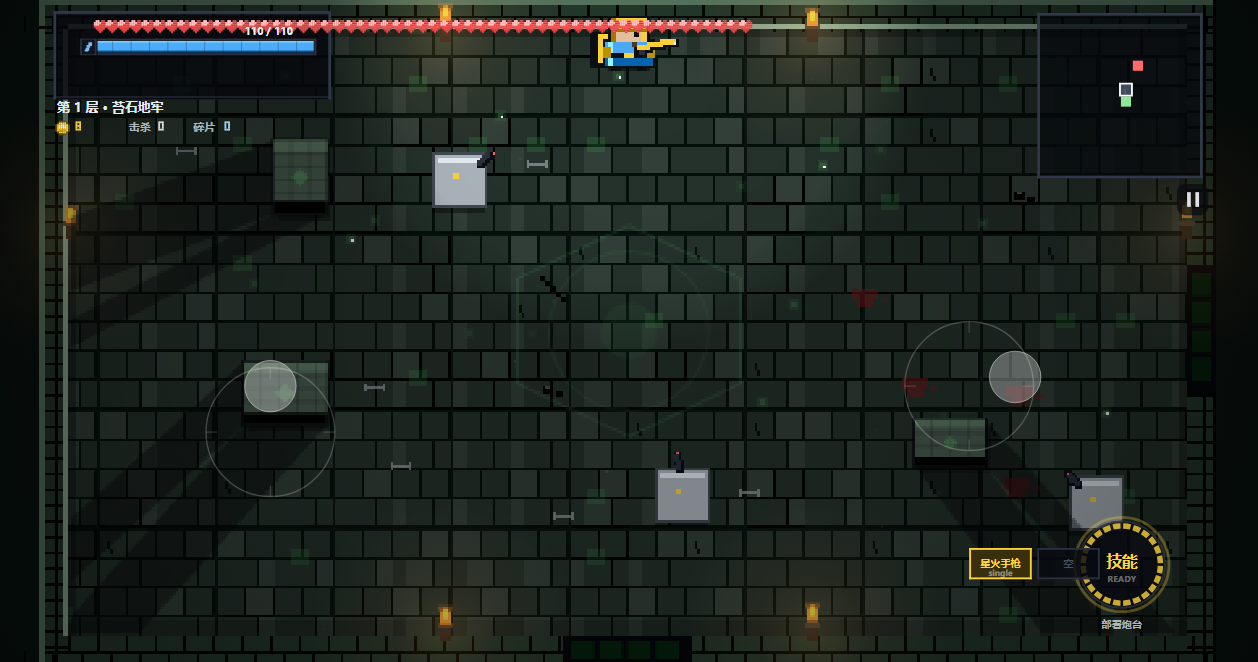
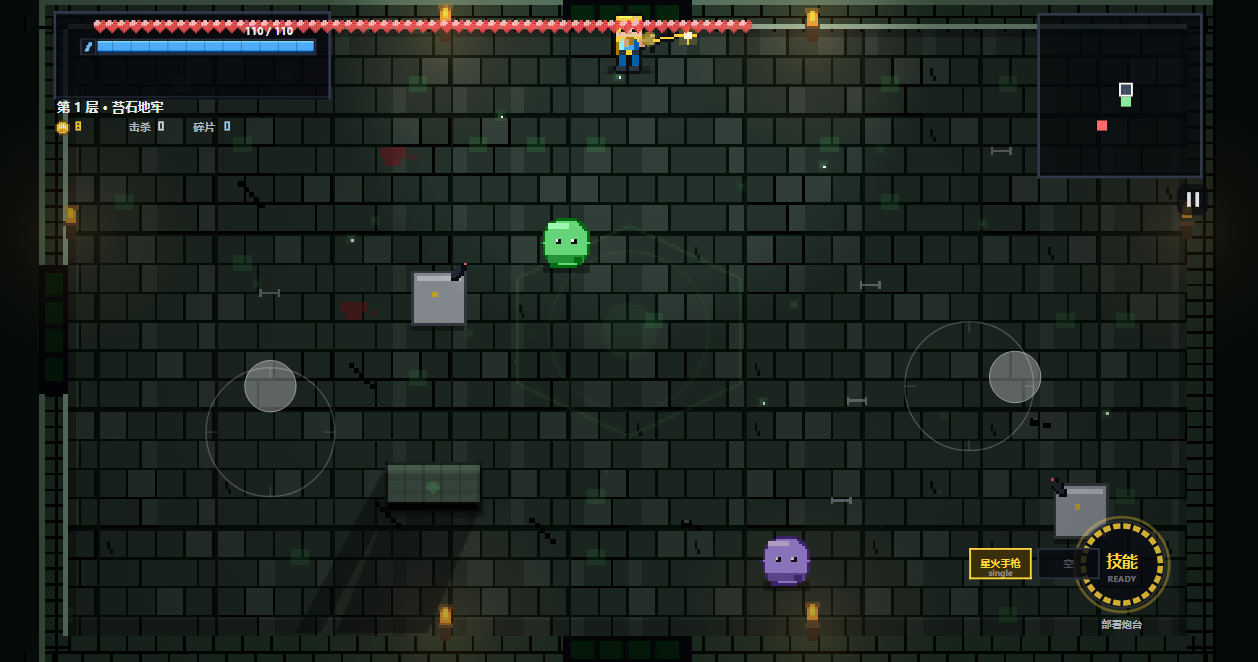
feat: 人物16x22像素精灵+1px描边轮廓、武器1px精修枪械、角色卡立绘放大

diff --git a/index.html b/index.html
@@ -4941,10 +4941,10 @@
     const R = Math.max(7, Math.round(PLAYER_R * K * 1.75));
     const sk = run.skin || 0;
     const body = tint(ch.color, sk), hair = tint(ch.accent, sk);
-    const dark = '#0b0f14';
-    c.fillStyle = 'rgba(0,0,0,.42)';
-    c.fillRect(X - R + 1, Y + R - 1, R * 2 - 2, Math.max(1, Math.round(R * 0.35)));
-    c.fillRect(X - R + 3, Y + R, R * 2 - 6, 1);
+    c.fillStyle = 'rgba(0,0,0,.30)';
+    c.fillRect(X - 8, Y + 9, 16, 3);
+    c.fillStyle = 'rgba(0,0,0,.16)';
+    c.fillRect(X - 10, Y + 11, 20, 1);
     if (run.shield > 0) {
       c.fillStyle = '#74c0fc';
       c.globalAlpha = 0.35 + Math.abs(Math.sin(G.time * 5)) * 0.35;
@@ -4954,148 +4954,189 @@
       c.globalAlpha = 1;
     }
     const blink = run.invuln > 0 && Math.floor(G.time * 20) % 2 === 0;
-    c.globalAlpha = blink ? 0.5 : 1;
+    c.globalAlpha = blink ? 0.45 : 1;
     const fx = Math.cos(p.ang), fy = Math.sin(p.ang);
     const dir = Math.abs(fx) > Math.abs(fy) ? (fx > 0 ? 1 : 3) : (fy > 0 ? 0 : 2);
     const moving = Math.hypot(p.vx || 0, p.vy || 0) > 20;
-    const frame = moving ? (Math.floor(G.time * 8) % 2) : 0;
-    // 披风（朝向反向飘动）
-    const back = dir === 1 ? -1 : dir === 3 ? 1 : 0;
-    const backY = dir === 0 ? -1 : dir === 2 ? 1 : 0;
-    c.fillStyle = dark;
-    c.fillRect(X + back * (R - 1) - Math.round(R * 0.75), Y - Math.round(R * 0.4) + backY * (R - 3), Math.round(R * 1.5), Math.round(R * 1.5));
-    c.fillStyle = hair;
-    c.fillRect(X + back * (R - 2) - Math.round(R * 0.6), Y - Math.round(R * 0.3) + backY * (R - 3), Math.round(R * 1.2), Math.round(R * 1.2));
-    // 头部（窄）+ 躯干（宽），粗描边
-    const hr = Math.max(3, Math.round(R * 0.74));
-    const hd = Math.max(4, Math.round(R * 1.05));
-    const headTop = Y - R;
-    const bodyTop = headTop + hd;
-    c.fillStyle = dark;
-    c.fillRect(X - hr - 1, headTop - 1, hr * 2 + 2, hd + 2);
-    c.fillRect(X - R - 1, bodyTop - 1, R * 2 + 2, Y + R - bodyTop + 2);
-    // 躯干（受击挤压帧 / 开火前倾帧）
+    const step = moving ? (Math.floor(G.time * 9) % 2) : 0;
+    const bob = moving ? step : Math.round(Math.sin(G.time * 2.4) * 1.2);
     const hurtP = run.hurtAt && G.time - run.hurtAt < 0.14;
     const atkP = run.muzzleAt && G.time - run.muzzleAt < 0.12;
-    const bw = hurtP ? R + 1 : R;
-    const bt = hurtP ? bodyTop + 1 : bodyTop;
-    const bb = hurtP ? Y + R - 1 : Y + R;
-    c.fillStyle = body;
-    c.fillRect(X - bw, bt, bw * 2, bb - bt);
-    c.fillStyle = hexShade(body, -0.28);
-    c.fillRect(X - bw, bb - 3, bw * 2, 3);
-    c.fillStyle = hexShade(body, 0.3);
-    c.fillRect(X - bw + 1, bt, 2, bb - bt);
-    if (atkP) {
-      // 持枪手前伸
-      c.fillStyle = dark;
-      c.fillRect(X + Math.round(fx * 3) - 2, Y + Math.round(fy * 3) - 2, 4, 4);
-      c.fillStyle = '#e8c39e';
-      c.fillRect(X + Math.round(fx * 4) - 1, Y + Math.round(fy * 4) - 1, 2, 2);
+    const DARK = '#0b0f14', SKIN = '#f2cba3', SKIN2 = '#d9a97e';
+    const bodyHi = hexShade(body, 0.28), bodyLo = hexShade(body, -0.3);
+    const hairHi = hexShade(hair, 0.22), hairLo = hexShade(hair, -0.34);
+    // 精灵格：16 宽 × 20 高，1 格 ≈ 1 个低分辨率像素
+    const GY = Y - 10 + (hurtP ? 1 : 0) + (bob ? 1 : 0);
+    const backView = dir === 2;
+    // 披风：朝反方向飘，带风摆
+    const capeX = dir === 1 ? -3 : dir === 3 ? 3 : 0;
+    const capeY = dir === 0 ? 2 : dir === 2 ? -2 : 0;
+    const flut = Math.round(Math.sin(G.time * 6) * 1);
+    // 轮廓 pass：同形状偏移 1px 用深色绘制，得到干净的 1px 描边
+    let oc = null, odx = 0, ody = 0;
+    const P = (gx, gy, gw, gh, col) => {
+      c.fillStyle = oc || col;
+      c.fillRect(X + gx + odx, GY + gy + ody, gw, gh);
+    };
+    const drawBody = () => {
+      // 披风（小一号，避免变成黑块）
+      P(-2 + capeX, 9 + capeY, 6, 6, hairLo);
+      P(-1 + capeX + flut, 10 + capeY, 4, 4, hexShade(hair, -0.5));
+      P(-3 - capeX, 12, 3, 2, hairLo);
+      // 腿 / 靴
+      const l1 = step ? 1 : 0, l2 = step ? -1 : 0;
+      P(-4, 15, 3, 4, bodyLo);
+      P(1, 15, 3, 4, bodyLo);
+      P(-5, 19 + l1, 4, 2, '#2b3340');
+      P(0, 19 + l2, 4, 2, '#2b3340');
+      // 躯干
+      P(-4, 7, 8, 8, body);
+      P(-4, 7, 2, 8, bodyHi);
+      P(2, 7, 2, 8, bodyLo);
+      // 肩甲
+      P(-5, 7, 2, 3, hair);
+      P(3, 7, 2, 3, hair);
+      // 围巾 + 尾
+      P(-4, 7, 8, 2, hair);
+      P(-4 - capeX, 8, 3, 3, hairLo);
+      // 腰带 + 扣
+      P(-4, 13, 8, 2, '#2b3340');
+      P(-1, 13, 2, 2, hair);
+      // 手臂（开火时前伸）
+      if (atkP) {
+        P(-4 + Math.round(fx * 2), 9 + Math.round(fy), 2, 3, SKIN2);
+        P(2 + Math.round(fx * 2), 9 + Math.round(fy), 2, 3, SKIN2);
+      } else {
+        P(-5, 9, 2, 4, SKIN);
+        P(3, 9, 2, 4, SKIN);
+      }
+      // 头
+      P(-5, 0, 10, 8, SKIN);
+      if (backView) {
+        P(-5, 0, 10, 7, hair);
+        P(-4, 0, 6, 1, hairHi);
+        P(-4, 4, 8, 3, hairLo);
+        P(-2, 2, 4, 2, hexShade(hair, -0.18));
+      } else {
+        P(-5, 0, 10, 3, hair);
+        P(-5, 0, 2, 6, hair);
+        P(3, 0, 2, 6, hair);
+        P(-4, 0, 5, 1, hairHi);
+        P(-5, 2, 3, 1, hairLo);
+        P(-3, 4, 2, 2, DARK);
+        P(1, 4, 2, 2, DARK);
+        P(-3, 4, 1, 1, '#ffffff');
+        P(1, 4, 1, 1, '#ffffff');
+        P(-4, 6, 1, 1, SKIN2);
+        P(3, 6, 1, 1, SKIN2);
+        P(-1, 6, 2, 1, SKIN2);
+        if (dir === 1) P(2, 0, 1, 3, SKIN);
+        if (dir === 3) P(-3, 0, 1, 3, SKIN);
+      }
+    };
+    oc = DARK;
+    for (let i = 0; i < 4; i++) {
+      odx = i === 0 ? -1 : i === 1 ? 1 : 0;
+      ody = i === 2 ? -1 : i === 3 ? 1 : 0;
+      drawBody();
     }
-    // 头部
-    c.fillStyle = '#e8c39e';
-    c.fillRect(X - hr, headTop, hr * 2, hd);
-    c.fillStyle = hair;
-    if (dir === 2) {
-      // 背面：整头后脑
-      c.fillRect(X - hr, headTop, hr * 2, hd);
-      c.fillStyle = hexShade(hair, -0.2);
-      c.fillRect(X - hr, headTop, hr * 2, 2);
-    } else {
-      c.fillRect(X - hr, headTop, hr * 2, Math.max(3, Math.round(hd * 0.55)));
-      c.fillRect(X - hr, headTop, 2, hd);
-      c.fillRect(X + hr - 2, headTop, 2, hd);
-      c.fillStyle = hexShade(hair, -0.35);
-      c.fillRect(X - hr, headTop + Math.max(3, Math.round(hd * 0.55)) - 1, hr * 2, 1);
-      if (dir === 1) c.fillRect(X - hr, headTop, 2, hd);
-      if (dir === 3) c.fillRect(X + hr - 2, headTop, 2, hd);
-    }
-    // 眼睛（按朝向）
-    const ey = headTop + Math.round(hd * 0.58);
-    c.fillStyle = '#0b0f14';
-    if (dir === 0) {
-      c.fillRect(X - 3, ey, 2, 2);
-      c.fillRect(X + 1, ey, 2, 2);
-      c.fillStyle = '#f8f9fa';
-      c.fillRect(X - 3, ey, 1, 1);
-      c.fillRect(X + 1, ey, 1, 1);
-    } else if (dir === 1) {
-      c.fillRect(X + 2, ey, 2, 2);
-    } else if (dir === 3) {
-      c.fillRect(X - 4, ey, 2, 2);
-    }
-    // 脚（两帧交替）
-    c.fillStyle = '#0b0f14';
-    if (frame === 0 || !moving) {
-      c.fillRect(X - R + 1, Y + R, 4, 2);
-      c.fillRect(X + R - 5, Y + R, 4, 2);
-    } else {
-      c.fillRect(X - R + 2, Y + R, 4, 2);
-      c.fillRect(X + R - 6, Y + R + 1, 4, 1);
-    }
-    // 腰带 / 肩甲 / 手套
-    c.fillStyle = '#0b0f14';
-    c.fillRect(X - R + 1, Y + R - 5, R * 2 - 2, 2);
-    c.fillStyle = hair;
-    c.fillRect(X - 2, Y + R - 5, 4, 2);
-    c.fillStyle = hexShade(hair, -0.25);
-    c.fillRect(X - R - 1, bodyTop + 2, 3, 4);
-    c.fillRect(X + R - 2, bodyTop + 2, 3, 4);
-    // 武器（按弹道族绘制不同剪影）
+    oc = null; odx = 0; ody = 0;
+    drawBody();
+    // 武器：按弹道族绘制 1px 精修剪影（枪管 / 机匣 / 握把 / 弹匣 / 瞄具 / 刀身 / 法球）
     const w = curWeapon();
     const rk = (run.muzzleAt && G.time - run.muzzleAt < 0.1) ? 2 : 0;
     if (w) {
-      c.save();
-      c.translate(-fx * rk, -fy * rk);
       const fam = w.fam;
-      const len = (fam === 'melee' || fam === 'shotgun' || fam === 'launcher') ? R + 5 : R + 8;
-      const put = (t, s, col, sz) => {
-        const qx = X + fx * t - fy * (s + 3), qy = Y + fy * t + fx * (s + 3);
+      const wc = w.color || '#ffd43b';
+      const wHi = hexShade(wc, 0.4), wLo = hexShade(wc, -0.35);
+      const metal = '#414b5e', metalHi = '#939db0';
+      const wood = '#7a5433', woodHi = '#9c7047', woodLo = '#5e4026';
+      const len = fam === 'melee' ? R + 5 : (fam === 'shotgun' || fam === 'launcher') ? R + 3 : R + 6;
+      const GOFF = 4; // 让枪从身体外侧开始，不压住胸口
+      const put = (t, s, col, sw, sh) => {
+        const qx = Math.round(X + fx * (t + GOFF) - fy * s) - (rk ? Math.round(fx) : 0);
+        const qy = Math.round(Y + fy * (t + GOFF) + fx * s) - (rk ? Math.round(fy) : 0);
         c.fillStyle = col;
-        c.fillRect(Math.round(qx) - ((sz / 2) | 0), Math.round(qy) - ((sz / 2) | 0), sz, sz);
+        c.fillRect(qx, qy, sw || 1, sh || 1);
       };
-      for (let t = 2; t <= len; t++) put(t, 0, dark, 3);
+      const strip = (t0, t1, s, col, sz) => { for (let t = t0; t <= t1; t++) put(t, s, col, sz || 1, sz || 1); };
+      const H = 1;
+      const outline = (t0, t1, s) => { strip(t0, t1, s, DARK); };
       if (fam === 'melee') {
-        for (let t = 3; t <= len; t++) put(t, 0, t > len - 2 ? '#f8f9fa' : w.color, 2);
-        put(2, -2, '#8a6b3d', 2);
-        put(2, 2, '#8a6b3d', 2);
+        // 刀身：1px 刃 + 上下描边 + 护手
+        outline(5, len, H - 1); outline(5, len, H + 1);
+        strip(5, len, H, '#cfd8e3');
+        put(len, H, '#ffffff');
+        put(4, H - 2, wood, 1, 5);
+        put(3, H, woodHi, 2, 2);
       } else if (fam === 'shotgun') {
-        for (let t = 3; t <= len; t++) put(t, 0, w.color, 2);
-        put(len, -2, w.color, 2);
-        put(len, 2, w.color, 2);
-        put(3, -2, '#4a3a28', 2);
+        // 双管霰弹：上下两管 + 泵动护木
+        outline(3, len, H - 2); outline(3, len, H + 2);
+        strip(4, len, H - 1, wc);
+        strip(4, len, H + 1, wLo);
+        strip(5, len, H, wHi);
+        put(2, H + 2, wood, 3, 2);
+        put(len + 1, H - 1, '#fff3bf', 2, 2);
       } else if (fam === 'launcher') {
-        for (let t = 3; t <= len; t++) put(t, 0, w.color, 4);
-        put(len + 1, 0, '#0b0f14', 3);
-      } else if (fam === 'summon' || fam === 'flame' || fam === 'charge') {
-        for (let t = 3; t <= len - 1; t++) put(t, 0, '#8a6b3d', 2);
-        put(len, 0, w.color, 3);
-        put(len, 0, '#f8f9fa', 1);
+        // 榴弹：粗管 + 喇叭口
+        outline(3, len, H - 2); outline(3, len, H + 2);
+        strip(4, len, H - 1, wc);
+        strip(4, len, H + 1, wc);
+        put(len + 1, H - 2, DARK, 3, 4);
+        put(len + 2, H - 1, wc, 2, 2);
       } else if (fam === 'laser' || fam === 'rail' || fam === 'chain') {
-        for (let t = 3; t <= len; t++) put(t, 0, w.color, 2);
-        for (let t = 5; t <= len; t++) put(t, 0, '#f8f9fa', 1);
-        put(2, 0, '#2b3040', 3);
+        // 能量武器：金属管 + 发光芯 + 瞄具
+        outline(3, len, H - 1); outline(3, len, H + 1);
+        strip(4, len, H, metal);
+        strip(6, len, H, wc);
+        put(4, H - 2, metalHi, 4, 1);
+        put(len + 1, H, hexA(wc, 0.6), 3, 3);
+      } else if (fam === 'summon' || fam === 'flame' || fam === 'charge') {
+        // 法杖：木杖 + 发光法球
+        strip(3, len, H, wood);
+        strip(4, len, H, woodHi);
+        put(len + 1, H - 1, DARK, 3, 3);
+        put(len + 1, H - 1, wc, 2, 2);
+        put(len + 1, H, '#ffffff');
+      } else if (fam === 'bounce' || fam === 'boomerang') {
+        // 双叉 / 回旋
+        outline(4, len, H - 1); strip(5, len, H - 1, wc);
+        outline(4, len, H + 2); strip(5, len, H + 2, wLo);
+        put(3, H, wood, 2, 2);
       } else {
-        for (let t = 3; t <= len; t++) put(t, 0, w.color, 2);
-        put(len, 0, '#f8f9fa', 1);
-        put(2, -2, '#4a3a28', 2);
-        put(4, 2, '#2b3040', 2);
+        // 步枪：枪托 + 机匣 + 枪管 + 弹匣 + 瞄具
+        put(2, H - 1, wood, 2, 2);
+        put(3, H, DARK, 1, 2);
+        put(4, H - 1, metal, 2, 2);
+        outline(6, len, H - 1);
+        outline(6, len, H + 1);
+        strip(6, len, H, wc);
+        put(5, H + 2, DARK, 2, 3);
+        put(5, H + 1, metal, 2, 1);
+        put(5, H - 2, metalHi, 2, 1);
+        put(len + 1, H, '#fff3bf');
+        put(5, H - 2, metalHi, 2, 1);
+        put(len + 1, H, '#fff3bf');
       }
-      // 枪口火花
+      // 枪口火花：小十字星 + 两层光晕
       if (rk) {
-        const mx = X + fx * (len + 3) - fy * 3, my = Y + fy * (len + 3) + fx * 3;
-        c.fillStyle = 'rgba(255,212,59,.75)';
-        c.fillRect(Math.round(mx) - 2, Math.round(my) - 2, 5, 5);
-        c.fillStyle = '#fff3bf';
-        c.fillRect(Math.round(mx) - 1, Math.round(my) - 1, 3, 3);
+        const mx = Math.round(X + fx * (len + 3 + GOFF) - fy * H);
+        const my = Math.round(Y + fy * (len + 3 + GOFF) + fx * H);
+        c.fillStyle = hexA(wc, 0.20); c.fillRect(mx - 3, my - 3, 7, 7);
+        c.fillStyle = '#ffd43b';
+        c.fillRect(mx - 3, my, 7, 1);
+        c.fillRect(mx, my - 3, 1, 7);
+        c.fillStyle = '#fff8dc'; c.fillRect(mx - 1, my - 1, 3, 3);
+        c.fillStyle = '#ffffff'; c.fillRect(mx, my, 1, 1);
       }
-      c.restore();
     }
-    // 受击闪白
+    // 受击闪白（贴合精灵轮廓）
     if (run.hurtAt && G.time - run.hurtAt < 0.12) {
-      c.fillStyle = 'rgba(255,255,255,.55)';
-      c.fillRect(X - R, Y - R, R * 2, R * 2 + 2);
+      c.globalAlpha = 0.55;
+      c.fillStyle = '#ffffff';
+      c.fillRect(X - 5, GY - 1, 10, 19);
+      c.fillRect(X - 4, GY + 18, 8, 2);
+      c.globalAlpha = blink ? 0.45 : 1;
     }
     c.globalAlpha = 1;
   }
@@ -6430,7 +6471,7 @@
       c.fillStyle = pg; c.fillRect(x + 5, y + 5, cw - 10, 76);
       c.fillStyle = 'rgba(255,255,255,.035)';
       for (let gy = y + 9; gy < y + 79; gy += 6) c.fillRect(x + 5, gy, cw - 10, 1);
-      miniHero(x + cw / 2, y + 30, tint(ch.color, skCur), tint(ch.accent, skCur), WEAPONS[ch.weapon], 1.7);
+      miniHero(x + cw / 2, y + 29, tint(ch.color, skCur), tint(ch.accent, skCur), WEAPONS[ch.weapon], 1.95);
       c.fillStyle = 'rgba(255,255,255,.06)'; c.fillRect(x + 5, y + 79, cw - 10, 1);
       // 名字条
       c.fillStyle = ch.color; c.fillRect(x + 5, y + 82, cw - 10, 26);
